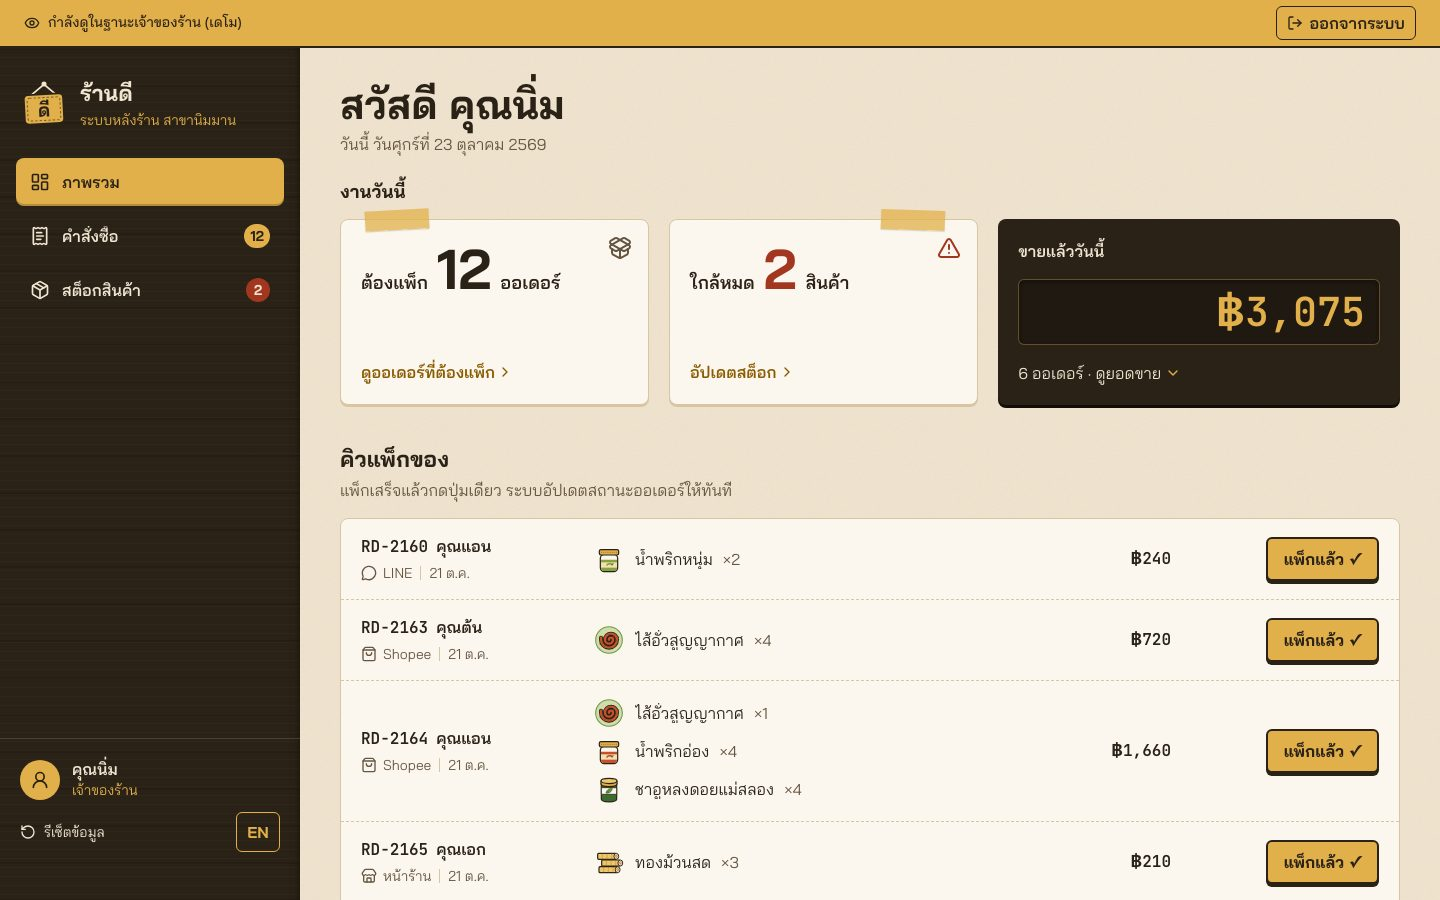
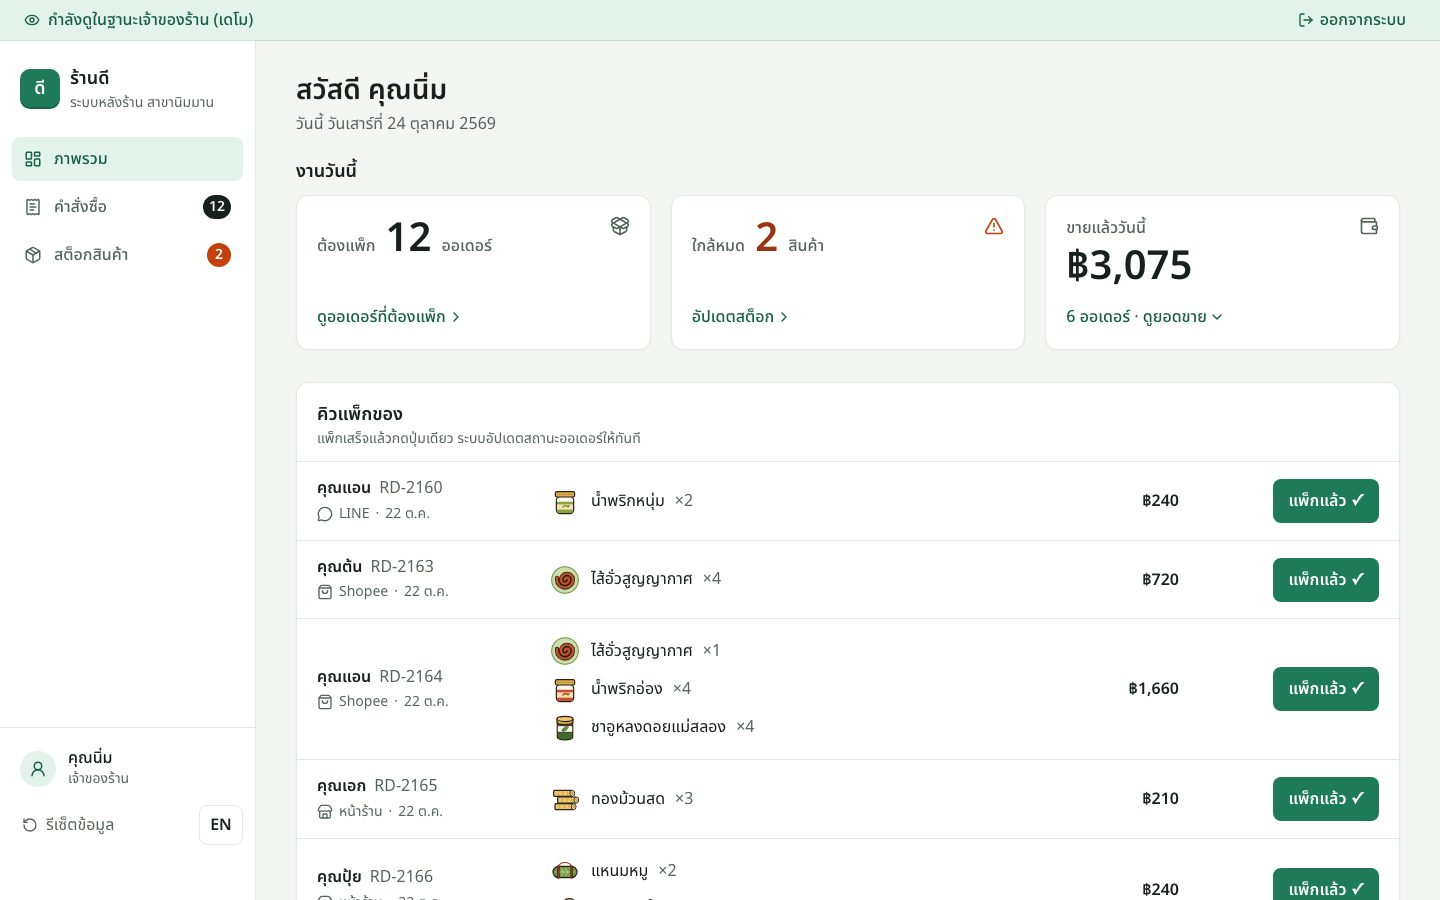
test(shop-admin): hub thumbnails for the clean look; backlog item done

diff --git a/docs/BACKLOG.md b/docs/BACKLOG.md
@@ -61,7 +61,7 @@ Ohm said that all six "still look ahh":
 - [ ] Use `/frontend-design` for the redesigns. Ohm rejected bland or templated looks before.
 - [ ] Re-run `scripts/capture-thumbs.mjs` afterwards. The hub fans and the hero wall use those screenshots.
 - [ ] Do this before #1 or together with it, so the demos are only translated once.
-- [ ] **Revisit the shop admin colours.** Ohm doesn't like the kraft, wood and mustard colorway from step 6 (PR #11, 2026-10-23). Rework the palette after step 7, keeping the today-first layout. The palette lives in `app/demos/shop-admin/layout.tsx` and `_components/shop-css.ts`.
+- [x] **Revisit the shop admin colours.** Ohm doesn't like the kraft, wood and mustard colorway from step 6 (PR #11, 2026-10-23). Rework the palette after step 7, keeping the today-first layout. The palette lives in `app/demos/shop-admin/layout.tsx` and `_components/shop-css.ts`. Done 2026-10-24: back to the original clean look (Noto Sans Thai, white panels, green brand, clean orders table), keeping step 6's features.
 
 ## Suggested order
 
